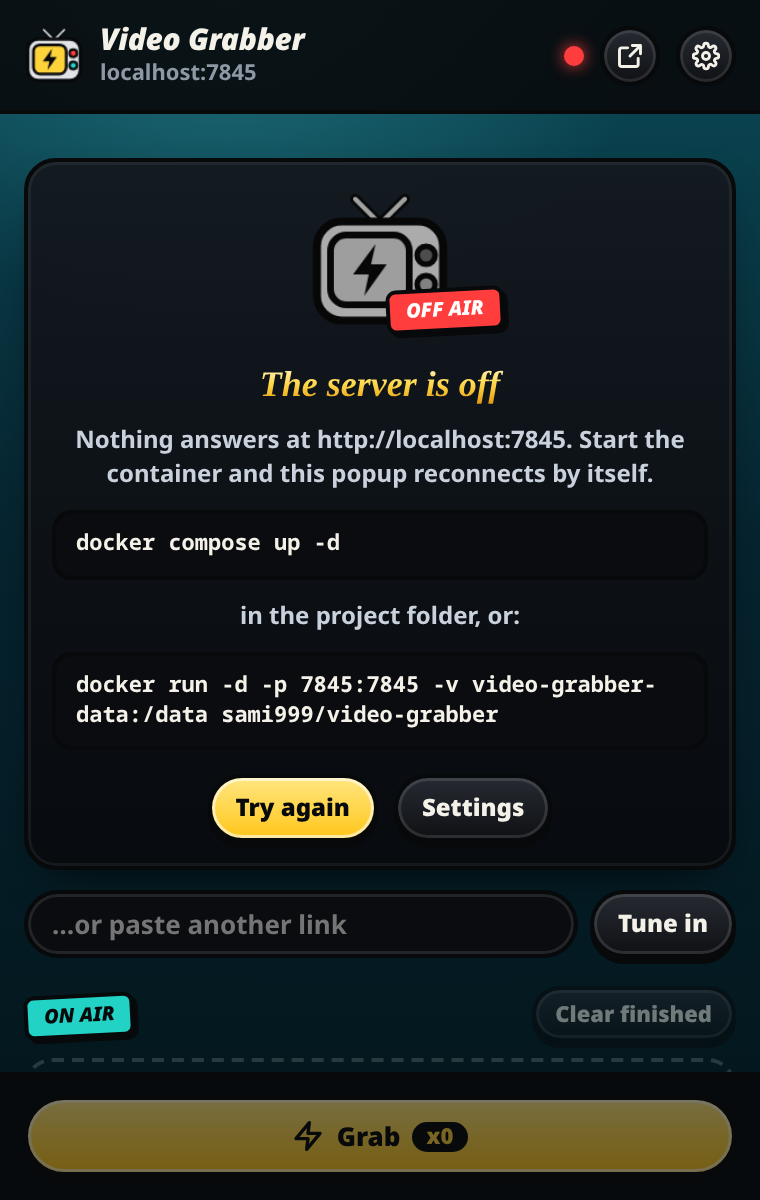
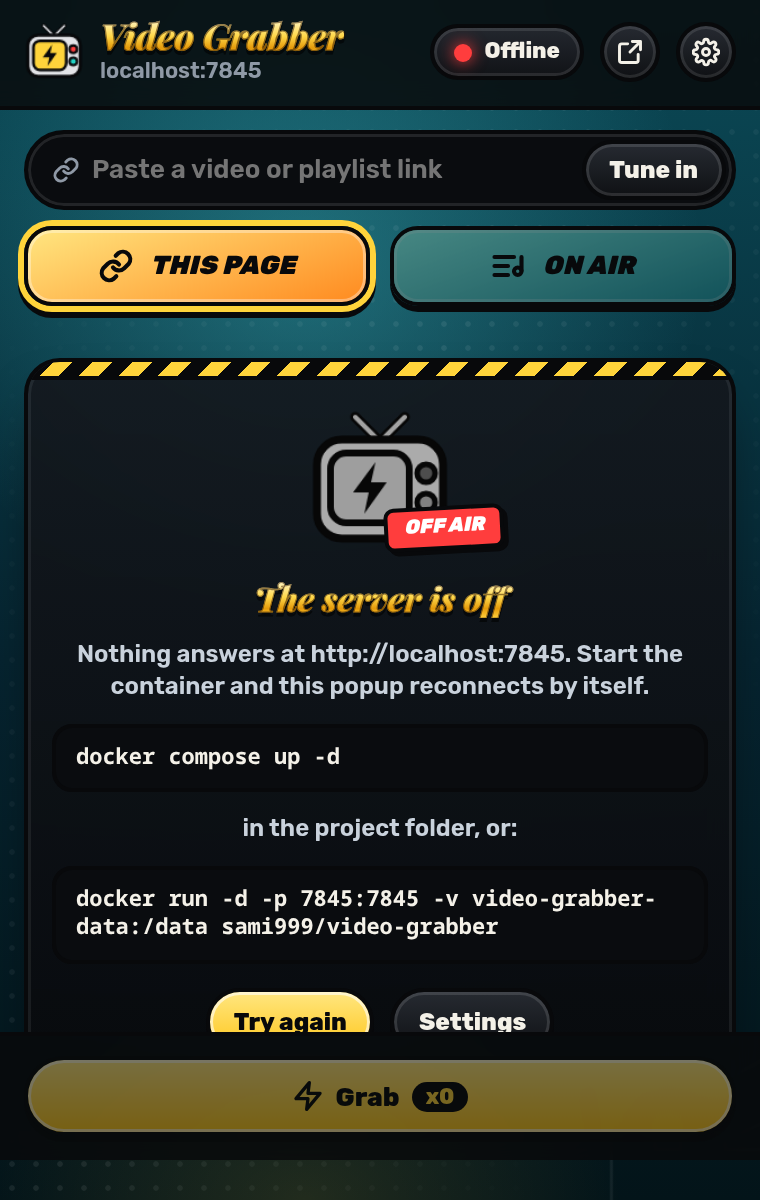
README: new screenshots of the extension and the speed limit
Retaken in the extension's new look (video, Mix, On air, speed limit, lost signal, any site,
server off, settings), plus the station's speed limit menu.

diff --git a/README.md b/README.md
@@ -104,6 +104,11 @@ docker compose up -d
 </table>
 
 <p align="center">
+  <img src="docs/screenshots/speed.png" alt="Speed limit menu under the total speed in the top bar">
+  <br><b>Speed limit</b><br><sub>click the total speed in the top bar; running downloads follow straight away</sub>
+</p>
+
+<p align="center">
   <img src="docs/screenshots/mobile.png" alt="The station on a phone" width="300">
 </p>
 
@@ -120,24 +125,32 @@ page**, ready to grab. DRM-protected services (Netflix, Spotify…) stay out of 
 
 <table>
   <tr>
-    <td align="center" width="33%"><img src="docs/screenshots/extension-video.png" alt="Popup on a video: every quality from 4K down, plus audio" width="260"></td>
-    <td align="center" width="33%"><img src="docs/screenshots/extension-playlist.png" alt="Popup on a playlist: one quality for all, pick the videos" width="260"></td>
-    <td align="center" width="33%"><img src="docs/screenshots/extension-live.png" alt="Popup with downloads coming in live" width="260"></td>
+    <td align="center" width="33%"><img src="docs/screenshots/extension-video.png" alt="Popup on a video: every quality from 4K down, plus audio, the picture in a little TV" width="260"></td>
+    <td align="center" width="33%"><img src="docs/screenshots/extension-playlist.png" alt="Popup on a YouTube Mix: one quality for all, switches to pick the videos" width="260"></td>
+    <td align="center" width="33%"><img src="docs/screenshots/extension-live.png" alt="On air tab: downloads coming in live, one with priority" width="260"></td>
   </tr>
   <tr>
     <td align="center"><b>Any quality</b><br><sub>reads the tab you're on</sub></td>
-    <td align="center"><b>Playlists</b><br><sub>one quality, Grab ×N</sub></td>
-    <td align="center"><b>Live progress</b><br><sub>2 per site, the rest on standby</sub></td>
+    <td align="center"><b>Playlists &amp; Mixes</b><br><sub>one quality, Grab ×N</sub></td>
+    <td align="center"><b>On air</b><br><sub>pause, ⚡ prioritize, remove</sub></td>
   </tr>
   <tr>
+    <td align="center"><img src="docs/screenshots/extension-speed.png" alt="Speed limit menu in the On air tab" width="260"></td>
+    <td align="center"><img src="docs/screenshots/extension-lost.png" alt="A page that can't be read: color bars, Lost sticker and a tip" width="260"></td>
     <td align="center"><img src="docs/screenshots/extension-anysite.png" alt="Popup on an unsupported site: the video the page plays, ready to grab" width="260"></td>
-    <td align="center"><img src="docs/screenshots/extension-offline.png" alt="Popup when the server is off: how to start it, reconnects by itself" width="260"></td>
-    <td align="center"><img src="docs/screenshots/extension-settings.png" alt="Extension settings: server address with quick picks for common ports" width="260"></td>
   </tr>
   <tr>
+    <td align="center"><b>Speed limit</b><br><sub>for all downloads together</sub></td>
+    <td align="center"><b>No signal</b><br><sub>says why, and what to try</sub></td>
     <td align="center"><b>Any site</b><br><sub>grabs what the page is playing</sub></td>
+  </tr>
+  <tr>
+    <td align="center"><img src="docs/screenshots/extension-offline.png" alt="Popup when the server is off: how to start it, reconnects by itself" width="260"></td>
+    <td align="center" colspan="2"><img src="docs/screenshots/extension-settings.png" alt="Extension settings: server address with quick picks for common ports" width="520"></td>
+  </tr>
+  <tr>
     <td align="center"><b>Server off</b><br><sub>start command, reconnects by itself</sub></td>
-    <td align="center"><b>Settings</b><br><sub>port quick picks, any-site switches</sub></td>
+    <td align="center" colspan="2"><b>Settings</b><br><sub>port quick picks, YouTube login, any-site switches</sub></td>
   </tr>
 </table>
 

diff --git a/extension/README.md b/extension/README.md
@@ -7,10 +7,14 @@ progress live. Works in Chrome, Edge, Brave, Opera and Firefox.
 <p>
   <img src="../docs/screenshots/extension-video.png" alt="Popup on a video: every quality from 4K down, plus audio" width="250">
   <img src="../docs/screenshots/extension-playlist.png" alt="Popup on a playlist: one quality for all" width="250">
-  <img src="../docs/screenshots/extension-live.png" alt="Popup with downloads in progress" width="250">
+  <img src="../docs/screenshots/extension-live.png" alt="On air tab: downloads in progress, one with priority" width="250">
 </p>
 <p>
+  <img src="../docs/screenshots/extension-speed.png" alt="Speed limit menu in the On air tab" width="250">
+  <img src="../docs/screenshots/extension-lost.png" alt="A page that can't be read: color bars, Lost sticker and a tip" width="250">
   <img src="../docs/screenshots/extension-offline.png" alt="Popup when the server is off" width="250">
+</p>
+<p>
   <img src="../docs/screenshots/extension-settings.png" alt="Settings: server address and quick picks for common ports" width="506">
 </p>
 
